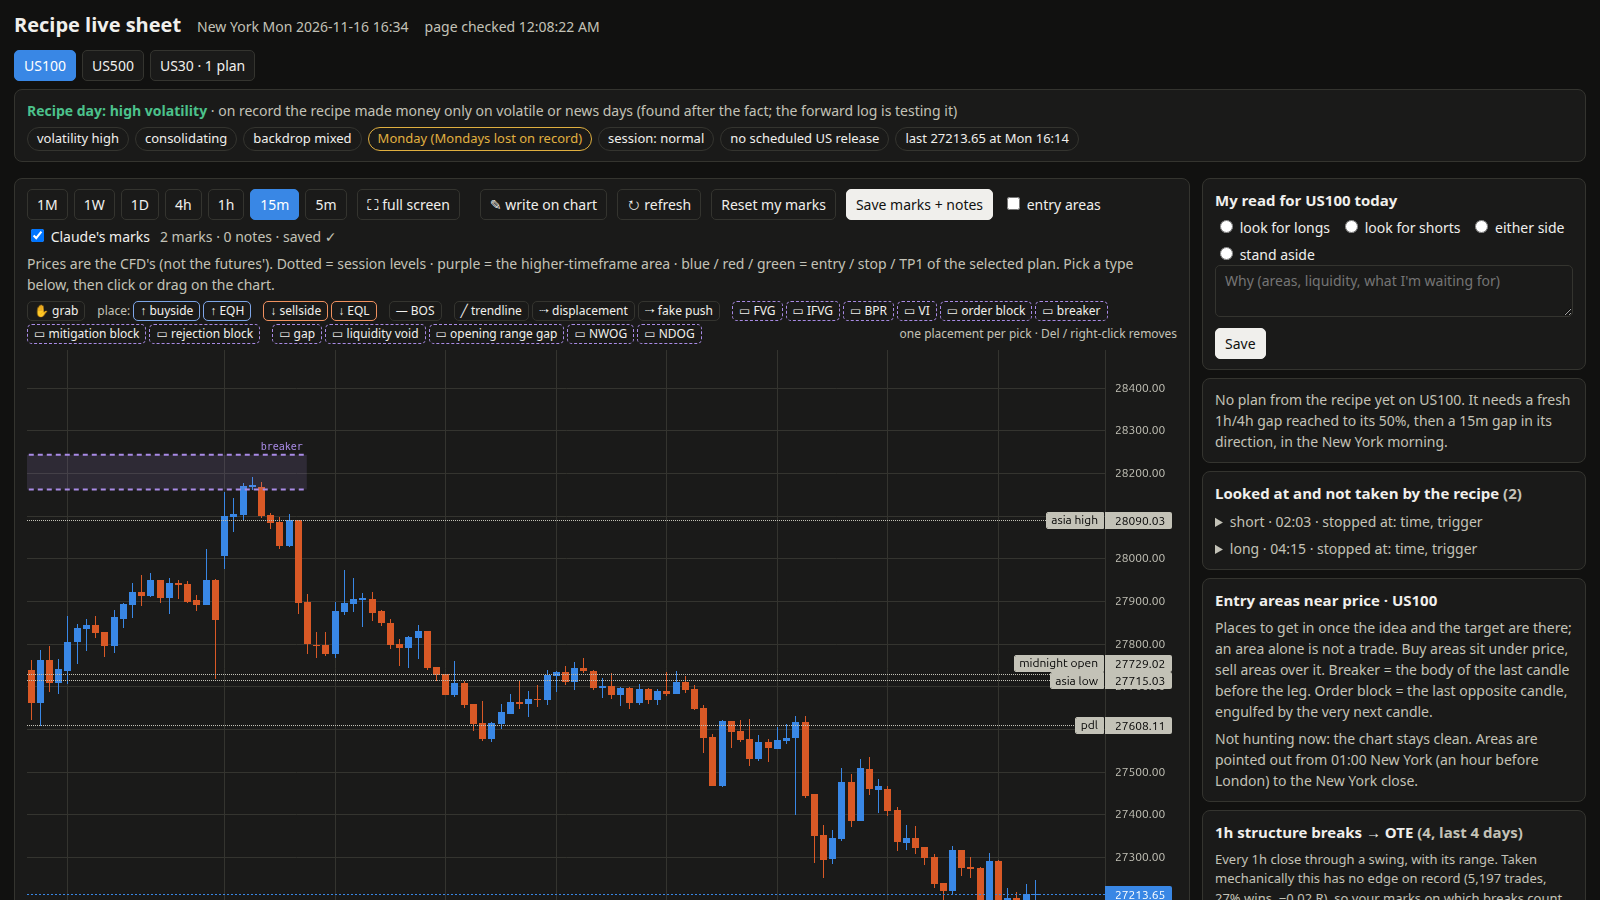
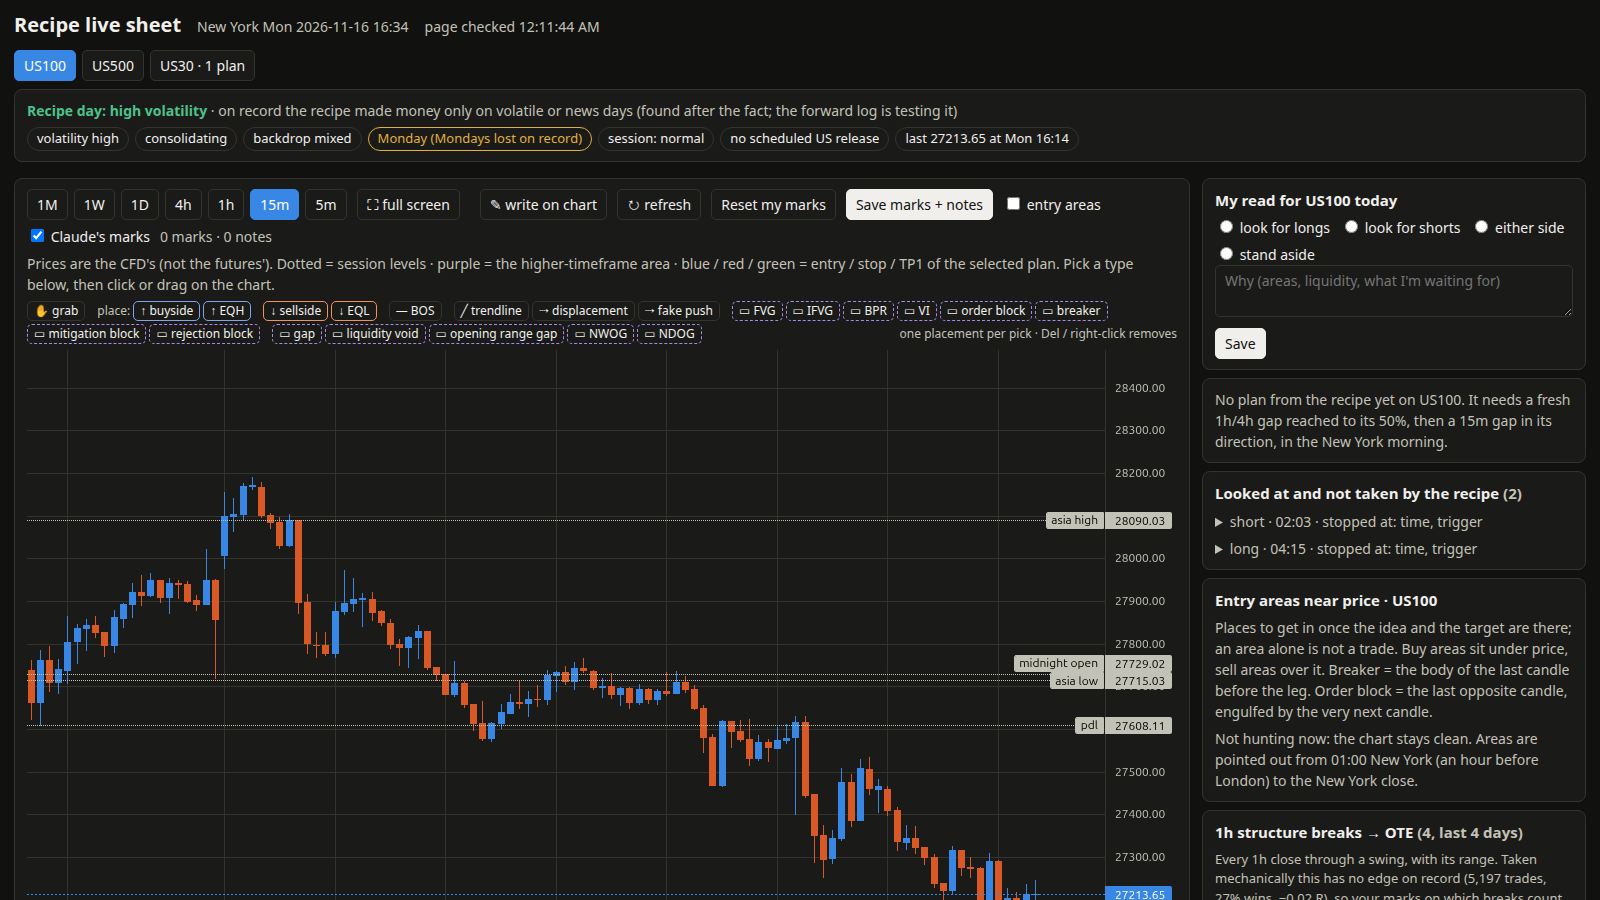
Live sheet: saved marks are no longer drawn back; each session (London / New York / after hours) starts with a clean chart; README screenshot retaken
Claude-Session: https://claude.ai/code/session_01HRm1SaMWe7t7bAZwnaSTNy

Changed region(s): [[0.0, 0.4978, 0.1875, 0.56], [0.1875, 0.2489, 0.2188, 0.28]]

diff --git a/viewer/live.html b/viewer/live.html
@@ -108,20 +108,19 @@ const $ = id => document.getElementById(id);
 const css = v => getComputedStyle(document.documentElement).getPropertyValue(v).trim();
 const esc = s => String(s ?? "").replace(/[&<>"]/g, c => ({ "&": "&amp;", "<": "&lt;", ">": "&gt;", '"': "&quot;" }[c]));
 const st = { doc: null, asset: null, tf: "15m", answers: {}, sel: null, sig: "", dirty: false, lines: [], marks: {}, notes: {}, noteTool: false, editing: null };
-// my marks: per index, kept as a draft in this browser for the day and sent with every save
-const mkKey = () => "live-marks-" + (st.doc ? st.doc.day : "");
+// my marks: per index, kept as a draft in this browser for the current session only (London / New York / after hours), and
+// sent with every save. A new session starts with a clean chart; saved marks stay on file and are never drawn back.
+const sessionOf = d => { const m = /(\d\d):(\d\d)$/.exec(d.now || ""), h = m ? +m[1] + m[2] / 60 : 0; return h < 8.5 ? "london" : h < 16 ? "newyork" : "after"; };
+const mkKey = () => "live-marks-v2-" + (st.doc ? st.doc.day + "-" + sessionOf(st.doc) : "");
 const myMarks = () => (st.marks[st.asset] ||= []);
 function loadMarks() { try { st.marks = JSON.parse(localStorage.getItem(mkKey()) || "{}"); } catch (e) { st.marks = {}; }
   try { st.notes = JSON.parse(localStorage.getItem(mkKey() + "-notes") || "{}"); } catch (e) { st.notes = {}; }
-  let wiped = {}; try { wiped = JSON.parse(localStorage.getItem(mkKey() + "-reset") || "{}"); } catch (e) {}   // a reset chart stays empty on reload
-  for (const a of Object.values(st.answers)) if (a.notes && a.asset && !wiped[a.asset] && a.day === st.doc.day && !(st.notes[a.asset] || []).length) st.notes[a.asset] = a.notes;
-  for (const a of Object.values(st.answers)) if (a.marks && a.asset && !wiped[a.asset] && a.day === st.doc.day && !(st.marks[a.asset] || []).length) st.marks[a.asset] = a.marks; }
+}
 // reset: my own marks and notes for this index go (earlier saves stay on file); Claude's overlay is not touched
 function resetMarks() {
   const n = myMarks().length + myNotes().length;
   if (!n || !confirm(`Remove your ${myMarks().length} marks and ${myNotes().length} notes from the ${st.asset} chart? Claude's marks stay, and what you already saved stays on file.`)) return;
   st.marks[st.asset] = []; st.notes[st.asset] = []; st.sel = null;
-  try { const w = JSON.parse(localStorage.getItem(mkKey() + "-reset") || "{}"); w[st.asset] = true; localStorage.setItem(mkKey() + "-reset", JSON.stringify(w)); } catch (e) {}
   drawChart(false); placeNotes();
 }
 // my notes: free writing pinned to a time and price ("what you missed"); same draft + save path as the marks
